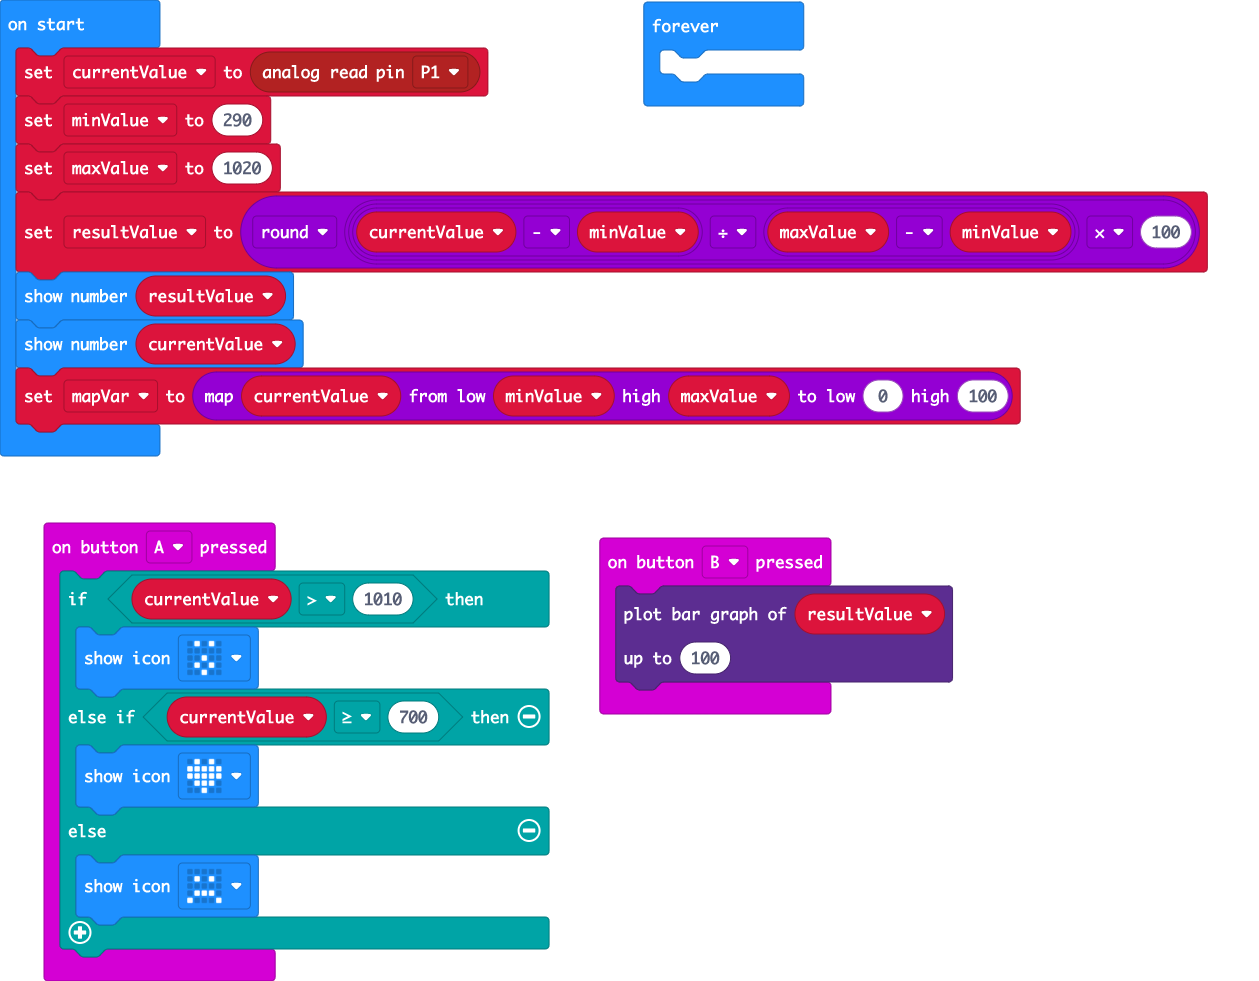
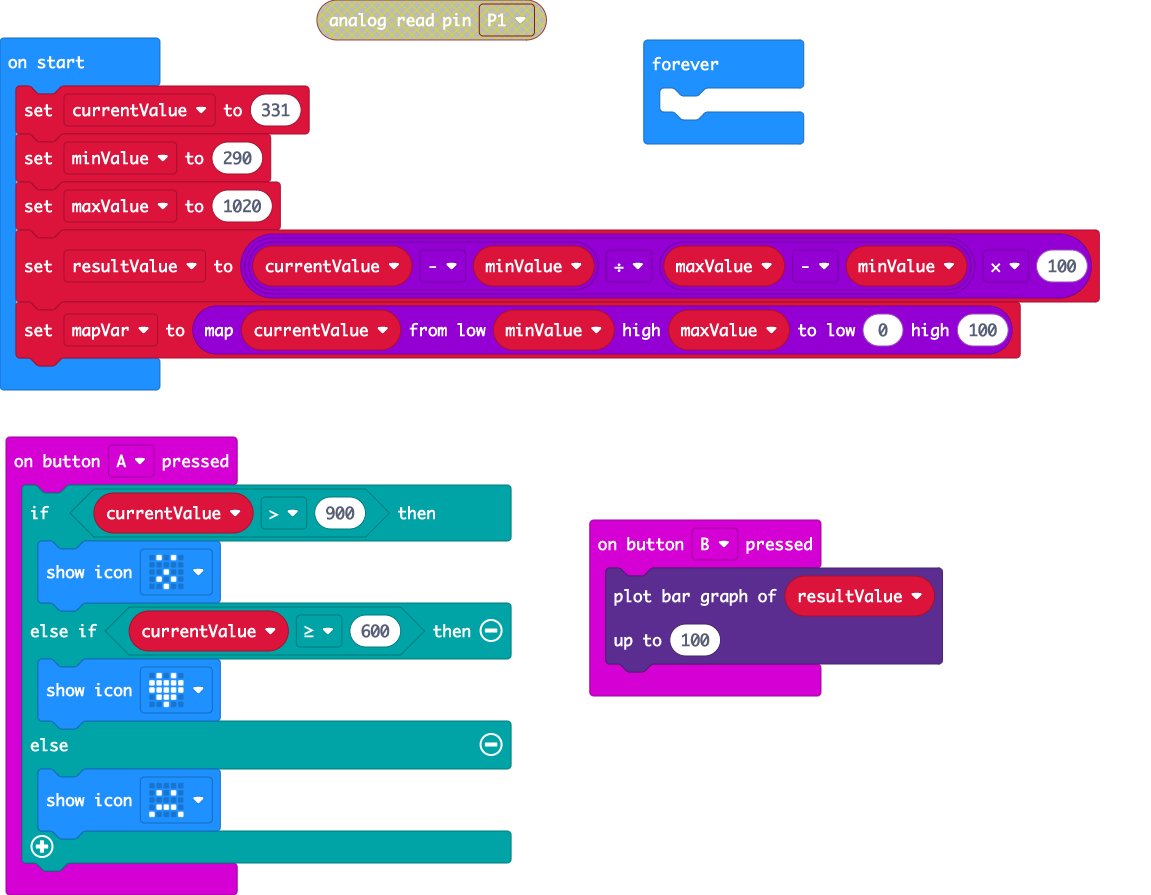
remove show value debug

diff --git a/main.ts b/main.ts
@@ -1,7 +1,7 @@
 input.onButtonPressed(Button.A, function () {
-    if (currentValue > 1010) {
+    if (currentValue > 900) {
         basic.showIcon(IconNames.Surprised)
-    } else if (currentValue >= 700) {
+    } else if (currentValue >= 600) {
         basic.showIcon(IconNames.Heart)
     } else {
         basic.showIcon(IconNames.Sad)
@@ -15,12 +15,10 @@ input.onButtonPressed(Button.B, function () {
 })
 let resultValue = 0
 let currentValue = 0
-currentValue = pins.analogReadPin(AnalogPin.P1)
+currentValue = 331
 let minValue = 290
 let maxValue = 1020
-resultValue = Math.round((currentValue - minValue) / (maxValue - minValue) * 100)
-basic.showNumber(resultValue)
-basic.showNumber(currentValue)
+resultValue = (currentValue - minValue) / (maxValue - minValue) * 100
 let mapVar = Math.map(currentValue, minValue, maxValue, 0, 100)
 basic.forever(function () {
 	
